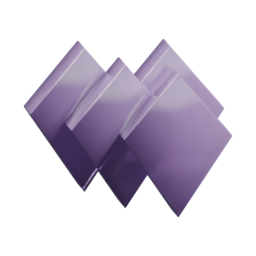
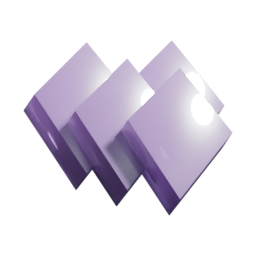
Put every gem on the new stone, and stop x4 paying x1
The gem glyph reached the shop, the panels and the board piles through
CurrencyCluster and inventoryPanel, both of which kept their own
hard-coded map straight to the SVGs - so every one of those surfaces drew
the flat vector mark while the HUD chip drew the render. Both now resolve
through currencyTexture.

The board gem family was square to the view and had no CURRENCY_MEASURED
entry at all, so its gains were all 1.0 and it rendered dark and grey
beside the calibrated chip mark. It now takes the mark's pose, coat and
headroom, the whole colour ladder is pulled down, and the family is
re-measured against the new pose.

The x4 collect read a source's charges before syncing it, so a reservoir
that had recharged still read as nearly empty, the multiplier stepped
down to x1, and a tier-4 stone source handed back a tier 1. The rules
themselves were never wrong, which is why it would not reproduce.

Also: energy payouts are near merge-neutral so a Hydro Core drop cannot
be merged past its worth, the currency panel shows an exact balance on a
HUD-style chip, chip glyphs hang off their left edge, and facilities and
the splitter are selectable so their info-box lines can be reached.

Changed region(s): [[0.0938, 0.1562, 0.9062, 0.8438]]

diff --git a/src/game/scenes/board/shopPanel.ts b/src/game/scenes/board/shopPanel.ts
@@ -11,8 +11,11 @@ import { Theme, hex, materialLighting, textResolution } from '../../ui/Theme';
 import {
   CURRENCY_COLOR,
   applyCurrencyIcon,
+  currencyBoxFor,
   currencyChipOptions,
+  currencyDisplaySize,
   currencyPill,
+  currencyTexture,
   type CurrencyKind
 } from '../../ui/CurrencyGlyph';
 import { drawCrate, drawTierIcon, iconPresentation } from '../../objects/TierIcons';
@@ -111,7 +114,47 @@ export function openShop(scene: BoardScene, mode: ShopMode = scene.shopMode): vo
   }).setOrigin(0.5).setInteractive({ useHandCursor: true });
   closeBtn.on('pointerdown', () => scene.time.delayedCall(0, () => closeShop(scene)));
 
-  overlay.add([dim, panelBg, panelCatcher, title, closeBtn]);
+  // The EXACT balance, not the HUD's abbreviated one. The chip that opens
+  // this panel has to abbreviate to fit the bar, so this is the only place
+  // a player can read what they actually hold. Drawn as the SAME chip the
+  // HUD uses - recessed ground, accent edge, mark hung a third off the left
+  // - so it reads as the bar's chip enlarged rather than a new widget.
+  const balanceKind: CurrencyKind = mode === 'gem' ? 'gem' : 'credit';
+  const balanceAccent = mode === 'gem' ? Theme.currencyGem : Theme.currencyCredit;
+  const balanceValue = mode === 'gem' ? scene.economy.gems : scene.economy.coins;
+  const balanceText = scene.add.text(0, 0, balanceValue.toLocaleString(), {
+    resolution: textResolution,
+    fontFamily: Theme.fontNumeric, fontSize: '13px', fontStyle: 'bold',
+    color: hex(materialLighting(balanceAccent, 4).light)
+  }).setOrigin(1, 0.5);
+  const balanceIconSize = currencyDisplaySize(scene, balanceKind, currencyBoxFor(balanceKind, 20));
+  const balanceH = 22;
+  const balanceW = Math.ceil(balanceText.width) + balanceIconSize + 18;
+  const balanceX = panelX - panelW / 2 + 22;
+  const balanceY = panelY - panelH / 2 + 20;
+  const balanceBg = scene.add.graphics();
+  const balanceGround = materialLighting(Theme.bgElevated, 2);
+  balanceBg.fillGradientStyle(balanceGround.light, balanceGround.base, balanceGround.dark, balanceGround.shadow, 1);
+  balanceBg.fillRoundedRect(balanceX, balanceY - balanceH / 2, balanceW, balanceH, Theme.radiusChip);
+  const balanceEdge = materialLighting(balanceAccent, 6);
+  balanceBg.lineGradientStyle(
+    Theme.borderWidth + 0.5,
+    balanceEdge.highlight, balanceEdge.light, balanceEdge.dark, balanceEdge.shadow, 0.95
+  );
+  balanceBg.strokeRoundedRect(balanceX, balanceY - balanceH / 2, balanceW, balanceH, Theme.radiusChip);
+  const balanceIconKey = currencyTexture(scene, balanceKind);
+  const balanceIconX = balanceX + balanceIconSize / 6;
+  const balanceIconShadow = scene.add.image(balanceIconX, balanceY + 1.5, balanceIconKey)
+    .setDisplaySize(balanceIconSize, balanceIconSize).setTintFill(0x000000).setAlpha(0.28);
+  const balanceIcon = scene.add.image(balanceIconX, balanceY, balanceIconKey)
+    .setDisplaySize(balanceIconSize, balanceIconSize);
+  balanceText.setPosition(balanceX + balanceW - 8, balanceY);
+
+  overlay.add([
+    dim, panelBg, panelCatcher, title,
+    balanceBg, balanceIconShadow, balanceIcon, balanceText,
+    closeBtn
+  ]);
 
   // Sits in the gap the title already leaves above the first section, so
   // showing it never reflows the rows below.

diff --git a/src/game/ui/CurrencyCluster.ts b/src/game/ui/CurrencyCluster.ts
@@ -1,12 +1,5 @@
 import Phaser from 'phaser';
-import { CurrencyKind, currencyBoxFor } from './CurrencyGlyph';
-
-/** The SVG mark each currency is drawn from. */
-const TEXTURE_KEY: Record<CurrencyKind, string> = {
-  credit: 'currency-coin',
-  gem: 'currency-gem',
-  energy: 'currency-energy'
-};
+import { CurrencyKind, currencyBoxFor, currencyTexture, currencyDisplaySize } from './CurrencyGlyph';
 
 /**
  * What a pile of currency looks like, defined ONCE.
@@ -84,8 +77,18 @@ export function buildCurrencyCluster(
   scene: Phaser.Scene, kind: CurrencyKind, tier: number, box: number
 ): ClusterPart[] {
   const layout = clusterLayoutFor(kind, tier);
-  const iconSize = currencyBoxFor(kind, box * clusterDrawnFraction(kind, layout.length));
-  const textureKey = TEXTURE_KEY[kind];
+  // THROUGH `currencyTexture`, not a map of its own.
+  //
+  // This module kept its own hard-coded list of the SVG keys, so every pile
+  // it draws - the shop, the panels, the daily rewards, the board's own
+  // clusters - stayed on the flat vector marks no matter what the renderer
+  // produced. That is why every gem in the game looked identical and unlike
+  // the one on the HUD chip: the chip was the only surface resolving its
+  // texture properly.
+  const textureKey = currencyTexture(scene, kind);
+  const iconSize = currencyDisplaySize(
+    scene, kind, currencyBoxFor(kind, box * clusterDrawnFraction(kind, layout.length)));
+  const rendered = textureKey.startsWith('item-');
   // The cluster offsets were authored against round marks, which hang evenly
   // around their centre. A bolt's mass sits low, so the same offsets drop the
   // whole group below the middle; energy lifts by a few percent to put it back.
@@ -95,10 +98,12 @@ export function buildCurrencyCluster(
     const px = x * box;
     const py = (y + lift) * box;
     const art = scene.add.image(px, py, textureKey).setDisplaySize(iconSize, iconSize);
+    // No white wash over a render - it is already lit, and the gloss only
+    // flattens the shading that makes it read as a solid.
     const gloss = scene.add.image(px, py, textureKey)
       .setDisplaySize(iconSize, iconSize)
       .setTintFill(0xffffff)
-      .setAlpha(0.2);
+      .setAlpha(rendered ? 0 : 0.2);
     gloss.setCrop(0, 0, gloss.width, gloss.height * 0.42);
     return { art, gloss };
   });

diff --git a/src/game/scenes/board/hudChrome.ts b/src/game/scenes/board/hudChrome.ts
@@ -27,7 +27,7 @@ export function buildEnergyChip(scene: BoardScene, y: number): HudChip {
   // the traced SVG when it is not.
   const boltRendered = loadedItemSprite(scene, 'currency-energy', 1);
   const boltKey = currencyTexture(scene, 'energy');
-  const iconSize = currencyDisplaySize(scene, 'energy', currencyBoxFor('energy', 17 * s));
+  const iconSize = currencyDisplaySize(scene, 'energy', currencyBoxFor('energy', 17 * s)) * 1.12;
   const iconShadow = scene.add.image(0, 0, boltKey).setDisplaySize(iconSize, iconSize).setTintFill(0x000000).setAlpha(0.28).setDepth(21);
   const icon = scene.add.image(0, 0, boltKey).setDisplaySize(iconSize, iconSize).setDepth(22);
   const iconGloss = scene.add.image(0, 0, boltKey).setDisplaySize(iconSize, iconSize).setTintFill(0xffffff).setAlpha(boltRendered ? 0 : 0.2).setDepth(23);
@@ -61,9 +61,12 @@ export function buildEnergyChip(scene: BoardScene, y: number): HudChip {
     );
     bg.strokeRoundedRect(x, y, w, h, Theme.radiusChip);
 
-    iconShadow.setPosition(x + 8 * s, y + h / 2 + 1.25 * s);
-    icon.setPosition(x + 8 * s, y + h / 2);
-    iconGloss.setPosition(x + 8 * s, y + h / 2);
+    // Hung a third off the chip's left edge, so the mark breaks the outline
+    // rather than sitting inside it.
+    const iconX = x + iconSize / 6;
+    iconShadow.setPosition(iconX, y + h / 2 + 1.25 * s);
+    icon.setPosition(iconX, y + h / 2);
+    iconGloss.setPosition(iconX, y + h / 2);
 
     text.setScale(Math.min(1, Math.max(0.72, (w - 22 * s) / Math.max(1, text.width))), 1);
     text.setPosition(x + w - 6 * s, y + h / 2);
@@ -175,9 +178,12 @@ scene: BoardScene,
     );
     bg.strokeRoundedRect(x, y, w, h, Theme.radiusChip);
 
-    iconShadow.setPosition(x + 9 * s, y + h / 2 + 1.25 * s);
-    icon.setPosition(x + 9 * s, y + h / 2);
-    iconGloss.setPosition(x + 9 * s, y + h / 2);
+    // Hung a third off the chip's left edge, so the mark breaks the outline
+    // rather than sitting inside it.
+    const iconX = x + iconSize / 6;
+    iconShadow.setPosition(iconX, y + h / 2 + 1.25 * s);
+    icon.setPosition(iconX, y + h / 2);
+    iconGloss.setPosition(iconX, y + h / 2);
 
     text.setScale(Math.min(1, Math.max(0.72, (w - 22 * s) / Math.max(1, text.width))), 1);
     text.setPosition(x + w - 6 * s, y + h / 2);

diff --git a/src/game/scenes/board/inventoryPanel.ts b/src/game/scenes/board/inventoryPanel.ts
@@ -4,7 +4,8 @@ import { ROWS, familyTierLabel, sourceTierLabel, spawnerPieceLabel, type BoardVi
 import type { GridPosition } from '../../types';
 import type { CratePayloadEntry } from '../../Grid';
 import { Theme, hex, materialLighting, textResolution } from '../../ui/Theme';
-import { currencyPill } from '../../ui/CurrencyGlyph';
+import { currencyPill, currencyTexture } from '../../ui/CurrencyGlyph';
+import type { CurrencyKind } from '../../ui/CurrencyGlyph';
 import { drawBriefcase, drawCrate, drawSourceBuilding, drawTierIcon, iconPresentation, sourcePalette } from '../../objects/TierIcons';
 import { drawSpawnerPieceIcon, SpawnerPieceView } from '../../objects/SpawnerPieceView';
 import { drawSplitterIcon, SplitterView } from '../../objects/SplitterView';
@@ -456,11 +457,14 @@ export function showInventory(scene: BoardScene, initialScroll = 0): void {
         visual = image;
         content.add(image);
       } else if (item.typeId.startsWith('currency-') && !(item.typeId === 'currency-credit' && item.tier >= 3)) {
-        const textureKey = item.typeId === 'currency-credit'
-          ? 'currency-coin'
-          : item.typeId === 'currency-gem'
-            ? 'currency-gem'
-            : 'currency-energy';
+        // Through `currencyTexture`, not a hand-picked key - these three
+        // names are the flat SVGs, so choosing them here kept the inventory
+        // on the vector marks while the rest of the game moved to rendered
+        // ones.
+        const kind: CurrencyKind = item.typeId === 'currency-credit'
+          ? 'credit'
+          : item.typeId === 'currency-gem' ? 'gem' : 'energy';
+        const textureKey = currencyTexture(scene, kind);
         const count = item.tier === 1 ? 1 : item.tier === 2 ? 2 : Math.min(6, item.tier + 1);
         const positions: [number, number][] = [
           [0, 4], [-10, 7], [10, 0], [-6, -9], [8, -11], [1, 12]

diff --git a/src/game/scenes/BoardScene.ts b/src/game/scenes/BoardScene.ts
@@ -105,7 +105,7 @@ import type { ShopState, ShopRowKey } from '../shop/Shop';
  */
 const FINAL_WATER_REWARD_RANGES = {
   coins: { min: 30_000, max: 40_000 },
-  energy: { min: 40, max: 60 },
+  energy: { min: 15, max: 25 },
   gems: { min: 2, max: 5 }
 } as const;
 
@@ -3332,6 +3332,14 @@ TAP THE EVENT CARD TO SPEND IT`
       this.refreshActionTray();
       return;
     }
+    // SYNCED BEFORE ITS CHARGES ARE READ. The Decagon and Water branches
+    // above both do this; the ordinary path did not, so it sized the
+    // multiplier off a reservoir count that had not been credited with the
+    // recharges that had already elapsed. A full tier-4 source could read as
+    // holding one charge, the multiplier stepped down to x1, and the tap
+    // came back tier 1 - which is exactly the "x4 gave me a tier 1 stone"
+    // report, and why it could never be reproduced in the rules themselves.
+    syncDispenser(view.spawner, Date.now());
     const empties = this.grid.emptyCells();
     if (empties.length === 0) {
       this.refreshActionTray('BOARD FULL\nSELECT AN ITEM TO SELL');

diff --git a/src/game/scenes/board/boardInput.ts b/src/game/scenes/board/boardInput.ts
@@ -39,7 +39,14 @@ export function selectItem(scene: BoardScene, key: string): void {
     if (previous instanceof TileView || previous instanceof SpawnerPieceView) previous.setSelected(false);
   }
   const next = scene.views.get(key);
-  if (next instanceof CrateView) {
+  // Selectable but not "picked up": a crate, a facility and a splitter all
+  // have something the info box needs to say - a meter, a count, what the
+  // machine eats - and none of them take the selected outline a tile does.
+  // The facility and splitter branches in `refreshActionTray` were
+  // unreachable before this: anything that was not a tile or a source piece
+  // cleared the selection on tap, so the two machines were the only things
+  // on the board that explained nothing when touched.
+  if (next instanceof CrateView || next instanceof FacilityView || next instanceof SplitterView) {
     scene.selectedItemKey = key;
     scene.rushTargetKey = null;
     scene.refreshActionTray();

diff --git a/src/game/rewards/ResourceRewards.ts b/src/game/rewards/ResourceRewards.ts
@@ -27,7 +27,11 @@ export const RESOURCE_PRODUCERS: Record<ResourceProducerId, {
 
 export const RESOURCE_PAYOUTS: Record<string, number[]> = {
   'currency-credit': [1, 3, 10, 35, 150, 1000],
-  'currency-energy': [1, 3, 8, 25, 100],
+  // Near merge-neutral on purpose: two of a tier are worth about what the
+  // tier above pays, so merging a Hydro Core drop up is a small bonus, not a
+  // multiplier. The old [1, 3, 8, 25, 100] roughly doubled the value at every
+  // step, which let a 40-60 drop be merged past 100.
+  'currency-energy': [1, 2, 5, 12, 30],
   'currency-gem': [1, 3, 8, 18, 40]
 };
 

diff --git a/src/game/objects/itemSprites.ts b/src/game/objects/itemSprites.ts
@@ -48,7 +48,7 @@ export function itemSpriteKey(typeId: string, tier: number): string {
  * A version in the query string makes the URL new, so every client refetches
  * once and then caches again normally.
  */
-export const ITEM_ART_VERSION = 30;
+export const ITEM_ART_VERSION = 32;
 
 /** Where the renderer writes it, relative to `public/`. */
 export function itemSpritePath(typeId: string, tier: number): string {

diff --git a/src/game/ui/CurrencyGlyph.ts b/src/game/ui/CurrencyGlyph.ts
@@ -113,7 +113,7 @@ const CURRENCY_TEXTURE: Record<CurrencyKind, string> = {
  */
 const CURRENCY_ITEM: Record<CurrencyKind, string> = {
   credit: 'credit-mark',
-  gem: 'currency-gem',
+  gem: 'gem-mark',
   energy: 'currency-energy'
 };
 

diff --git a/tools/blender/render_items.py b/tools/blender/render_items.py
@@ -214,8 +214,11 @@ CURRENCY_HEX = {
                         4: 0xf1c04d, 5: 0xf2c452, 6: 0xf4c757},
     "currency-energy": {1: 0x24a9e8, 2: 0x2ab3ed, 3: 0x35bef0,
                         4: 0x48c9f2, 5: 0x61d3f4},
-    "currency-gem": {1: 0x9d70c2, 2: 0xaa7dca, 3: 0xb789d2,
-                     4: 0xc497db, 5: 0xd2a6e3},
+    # The whole ladder pulled DOWN, both ends by hand: tier one was reading
+    # hot rather than as the base of the family, and tier five was close to
+    # washing out. Same five even steps, lower.
+    "currency-gem": {1: 0x8f63b4, 2: 0x9a6fbd, 3: 0xa77cc5,
+                     4: 0xb287cb, 5: 0xbe92d0},
 }
 # Measured off a render. A metal has no diffuse colour - it tints what it
 # reflects - so it renders well below its swatch by nature, and the gain is
@@ -232,6 +235,15 @@ CURRENCY_MEASURED = {
     # correction is mostly a red cut, which is what puts the blue back.
     "currency-energy": {1: 0x8db7cf, 2: 0x90bbd1, 3: 0x94bed1,
                         4: 0x92baca, 5: 0x9dc1ce},
+    # The gems had NO entry at all, so `measured` fell back to the wanted
+    # colour, every gain came out 1.0, and the family rendered uncorrected -
+    # which is the whole reason the board gem sat dark and grey next to the
+    # calibrated chip mark. Measured off the alpha-masked renders at the
+    # chip mark's coat. RE-MEASURED after the pose change: the mark's swing
+    # puts far more lit face in shot, so the family now renders BRIGHTER
+    # than its swatch and the correction is a cut rather than a lift.
+    "currency-gem": {1: 0xa79cba, 2: 0xa499b7, 3: 0xaca2bb,
+                     4: 0xa69bb4, 5: 0xb0a5b9},
 }
 
 CURRENCY_RGB = {
@@ -1643,6 +1655,14 @@ def build_currency(kind: str):
                 # laying it flat was wrong, and the answer was simply a much
                 # bigger turn than any of them.
                 piece.rotation_euler.rotate_axis("Z", math.radians(74.79))
+            elif kind == "currency-gem":
+                # THE CHIP MARK'S POSE. `facing_profile` leaves the slab
+                # square to the view, where the lamp's mirror misses the
+                # camera entirely and the face renders as flat dark purple.
+                # The mark's swing and tilt are what put the highlight back
+                # into shot, and they are the difference the board gems were
+                # missing - not the material, which already matched.
+                chip_facing(piece, 'Y')
             else:
                 facing_profile(piece)
             pieces.append(translate_to(piece, beside(right, back)))
@@ -1656,7 +1676,12 @@ def dress_currency(kind: str, out):
         measured = CURRENCY_MEASURED.get(kind, CURRENCY_HEX[kind])
         material = tier_material("%s-tier-%d" % (kind, tier),
                                  CURRENCY_HEX[kind][tier], measured[tier],
-                                 max_gain=1.45)
+                                 # The gems need the chip mark's headroom.
+                                 # A dielectric slab under this studio comes
+                                 # back far darker than a coin does, and 1.45
+                                 # clips the correction long before it
+                                 # reaches the drawn purple.
+                                 max_gain=3.0 if kind == "currency-gem" else 1.45)
         shader = _shader(material)
         if kind == "currency-credit":
             # A coin is the one genuinely METALLIC thing in the game. Every
@@ -1740,7 +1765,11 @@ def dress_currency(kind: str, out):
             shader.inputs["Transmission Weight"].default_value = 0.5
             shader.inputs["Roughness"].default_value = 0.04
             shader.inputs["IOR"].default_value = 1.75
-            polished(material, coat_roughness=0.01)
+            # The CHIP MARK's coat, not a sharper one. A 0.01 coat mirrors
+            # the lamp as a hard bright disc and leaves the rest of the face
+            # dark; blurring it to 0.25 is what made the mark read as a lit
+            # solid, and the board gems have to be the same stone.
+            polished(material, coat_roughness=0.25)
         # A REAL CHAMFER on the credit pieces. The drawn coin has a stroked
         # outline inside its edge, and on a solid that is a chamfered rim -
         # at 0.010 on a 0.042-thick coin it was a hairline and the edge read
